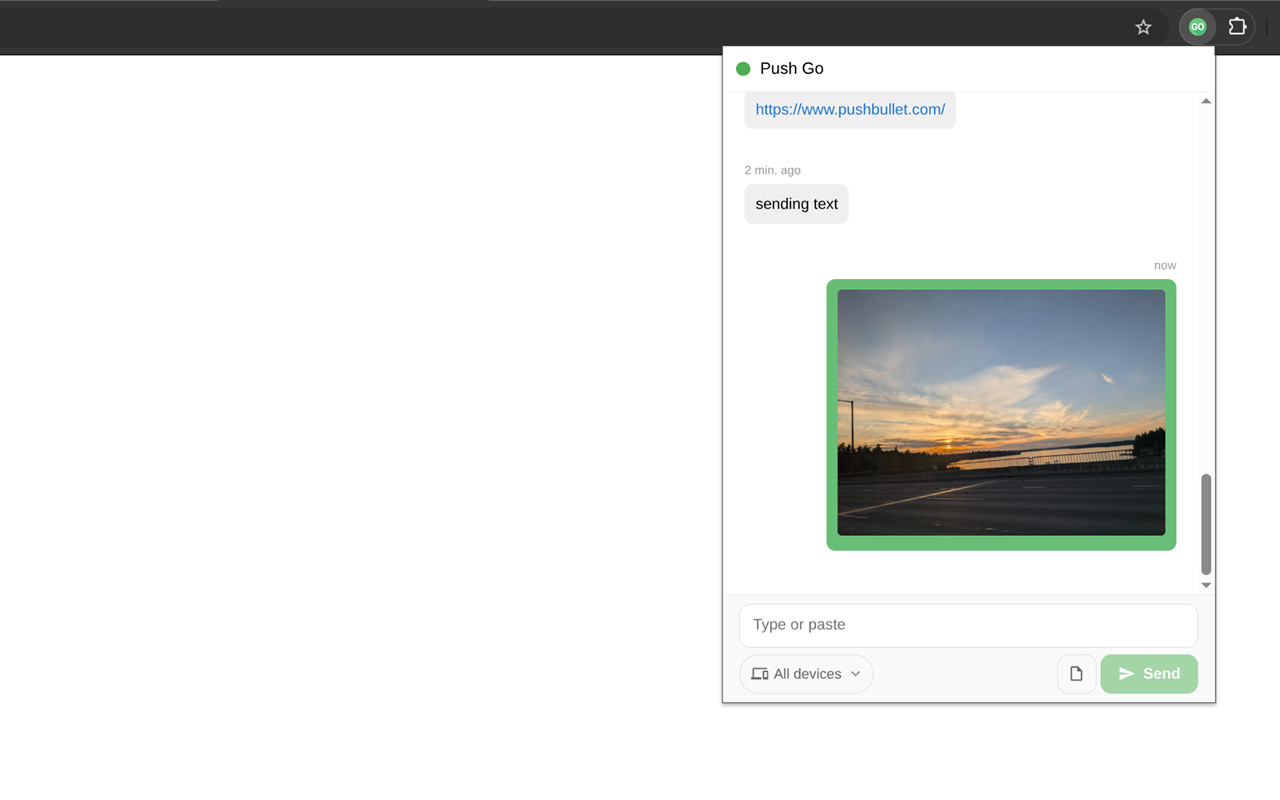
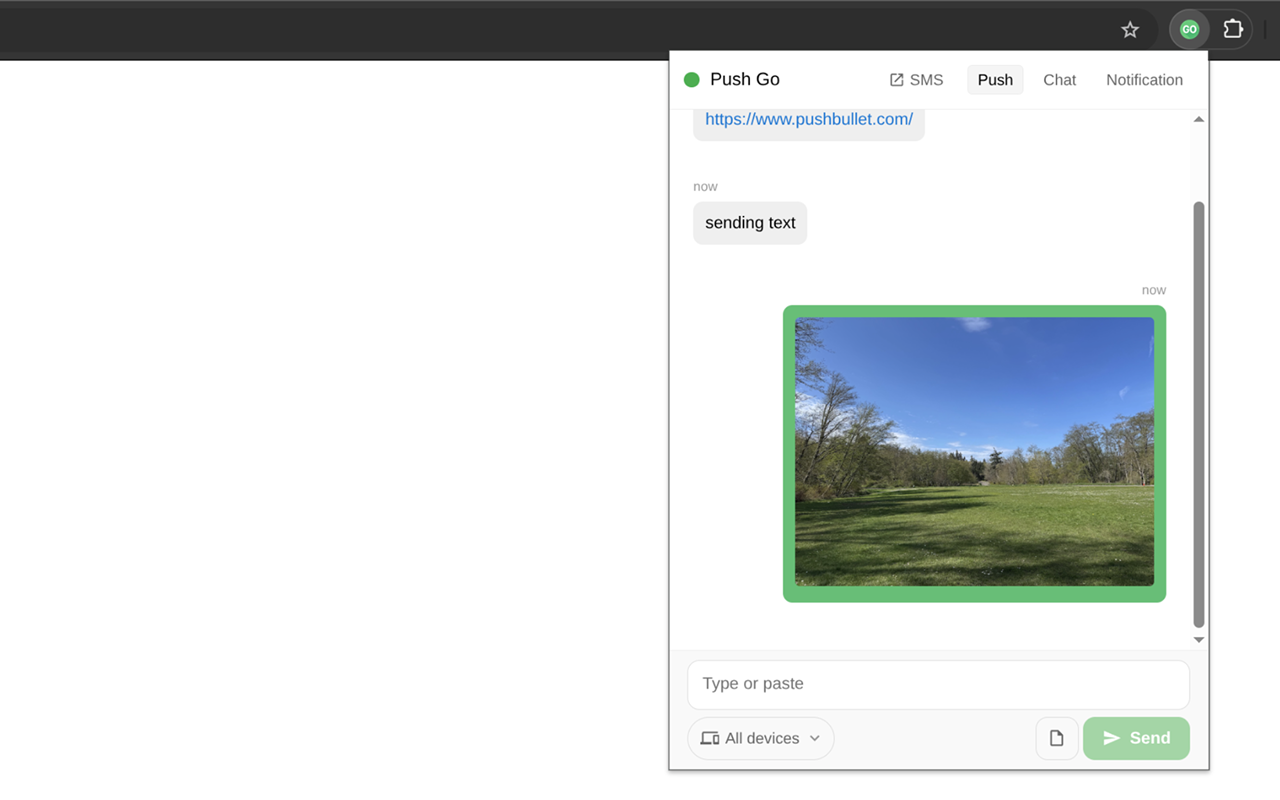
update readme and screenshots

diff --git a/README.md b/README.md
@@ -2,15 +2,15 @@
 
 [![Chrome Web Store Version](https://img.shields.io/chrome-web-store/v/dghndapbehjdbhiffbckojkhoennbofg)](https://chromewebstore.google.com/detail/push-go-for-pushbullet/dghndapbehjdbhiffbckojkhoennbofg) [![Chrome Web Store Users](https://img.shields.io/chrome-web-store/users/dghndapbehjdbhiffbckojkhoennbofg)](https://chromewebstore.google.com/detail/push-go-for-pushbullet/dghndapbehjdbhiffbckojkhoennbofg) [![Chrome Web Store Rating](https://img.shields.io/chrome-web-store/rating/dghndapbehjdbhiffbckojkhoennbofg)](https://chromewebstore.google.com/detail/push-go-for-pushbullet/dghndapbehjdbhiffbckojkhoennbofg)
 
-> **Note 1**: The extension name has been changed to "Push Go" due to Chrome Web Store policy.
+> **Note 1**: The official name of this extension is "Push Go for Pushbullet".
 >
-> **Note 2**: This is a third-party, open-source client for Pushbullet API. Not affiliated with or endorsed by the service.
+> **Note 2**: This is a third-party, open-source client for Pushbullet API. Not affiliated with or endorsed by Pushbullet.
 
 ![Pushbullet Go](screenshots/1_popup.png)
 
 A lightweight Chrome extension for Pushbullet that enables receiving and sending pushes directly from your browser.
 
-This extension is compatible with Manifest V3, making it an alternative to the official extension which no longer works.
+This extension is compatible with Manifest V3, making it a drop-in alternative to the official extension, which no longer works in the latest Chrome and other Chromium-based browsers such as Brave.
 
 [![](https://developer.chrome.com/static/docs/webstore/branding/image/UV4C4ybeBTsZt43U4xis.png)](https://chromewebstore.google.com/detail/push-go-for-pushbullet/dghndapbehjdbhiffbckojkhoennbofg)
 
@@ -18,23 +18,50 @@ This extension is compatible with Manifest V3, making it an alternative to the o
 
 Require a [Pushbullet](https://www.pushbullet.com/) account. Features include:
 
+**Basics**
+
+- Authenticate via OAuth or enter access token manually
+- Unread counts and OS notifications with sound
+- Supports i18n with 33 languages
+
+**Push**
+
 - Receive and send pushes
-- Push files/images by pasting, dragging, or uploading (in standalone window due to Chrome's restriction)
-- Push current page's URL, selected text, or images from context menu with device/people selection
-- Control which devices to push to by selecting devices
-- Notifications for received pushes with buttons to open links and dismiss
-- Auto-open received link in a new tab (default off, enable in options page)
-- Stores 100 latest pushes locally (full history available on Pushbullet website)
-- (New) Filter to show and notify pushes by target device
-- (New) Control notifications from browser-sourced pushes (useful for multi-browser use case)
-- (New) Notification Mirroring (requires Pushbullet Android app installed and enabled in both Android app and Push Go settings)
-- (New) Dark Mode (follows system by default, or choose manually)
-- (New) Supports i18n with 33 languages
-- (New) Unread count
-- (New) Quick share of current tab's link in the popup (default off, enable in options page)
-- (New) Play sound on notification (can be disabled in options page)
-- (New) End-to-end encryption for notification mirroring
-- (New) Extract verification code from mirrored notification (click to copy in the popup)
+- Filter to show and notify pushes by target device
+- Push files/images by pasting, dragging, or uploading
+- Push current page's URL, selected text, or images from context menu
+- Push via keyboard shortcut
+- Set a default push target, or change it per-send in the popup
+- Auto-open received links
+- Quick share of current tab's link in the popup
+- Clear local push history
+
+**Chat**
+
+- Per-person conversations with message history — send text and files the same way as pushes
+- Mute/unmute conversations
+- Auto-open links from selected people
+- Clear local chat history per conversation
+
+**Notification Mirroring**
+
+- Receive mirrored notifications with end-to-end encryption support
+- Extract verification codes from mirrored notifications and copy with one click in the popup
+
+**SMS**
+
+- The Pushbullet API doesn't provide full SMS endpoints, so SMS conversations like the official extension aren't possible for now. Instead, you can enable a popup shortcut that opens SMS on the Pushbullet website
+- If you want SMS notifications mirrored to your browser, remember to turn off "SMS sync" in the Pushbullet Android app — otherwise they won't come through
+
+**Customization**
+
+Push Go offers fine-grained options for advanced users to tailor almost everything, such as:
+
+- Auto-open tuning — include file pushes, auto-open on reconnect, hide auto-opened notifications
+- Notification behavior — sound, hide pushes sent from browsers, require interaction to dismiss (per category), treat native close as dismiss
+- Toggle individual features on/off — chat, notification mirroring, context menu, quick share, SMS shortcut
+- Default popup tab and which unread counts to display
+- Dark Mode (follows system by default, or choose manually)
 
 ## Installation
 > **Note 3**: Requires Chrome 116+ for using `chrome.idle` API to maintain connection to Pushbullet's WebSocket server.
@@ -45,7 +72,7 @@ Install directly from the [Chrome Web Store](https://chromewebstore.google.com/d
 
 ### Manual
 
-1. Download and unzip the extension from the `release/` folder
+1. Download and unzip the latest version from the [Releases page](https://github.com/nemofq/pushbullet-go/releases)
 2. Open Chrome and navigate to `chrome://extensions/`
 3. Enable "Developer mode" in the top right
 4. Click "Load unpacked" and select the `/src` folder from unzipped
@@ -60,22 +87,26 @@ Install directly from the [Chrome Web Store](https://chromewebstore.google.com/d
 ## Permissions
 
 This extension requires the following permissions:
-- **Storage**: To save your options and push history locally
+- **Storage**: To save your options and push/mirrored notification history locally
 - **Idle**: To maintain the connection to receive pushes in real time
-- **Notifications**: To display push notifications
-- **Context Menus**: To add right-click menu options for pushing content
+- **Notifications**: To display notifications in the browser
+- **Context Menus**: To add right-click context menu options
 - **Active Tab**: To access current page's URL and title for context menu and keyboard shortcut actions
-- **Host Access**: To communicate with Pushbullet API servers
+- **Host Access**: To communicate with Pushbullet servers
 - **Offscreen**: To play notification sound
 - **Identity**: To complete OAuth process
 
 ## Privacy
 
-This extension stores everything locally and does not transmit any information beyond Pushbullet's API.
+This extension stores everything locally and does not transmit any information beyond Pushbullet's API. See the [full privacy policy](https://nemofq.github.io/pushbullet-go/privacy) for details.
 
 ## License
 
-This project uses the [AGPL-3.0 license](https://github.com/nemofq/pushbullet-go?tab=AGPL-3.0-1-ov-file). If you have any feature requests or feedback, feel free to create an issue or pull request.
+This project uses the [AGPL-3.0 license](https://github.com/nemofq/pushbullet-go?tab=AGPL-3.0-1-ov-file). 
+
+## Feedback
+
+If you have any feature requests or feedback, feel free to create an issue or pull request.
 
 ## One More Thing
 